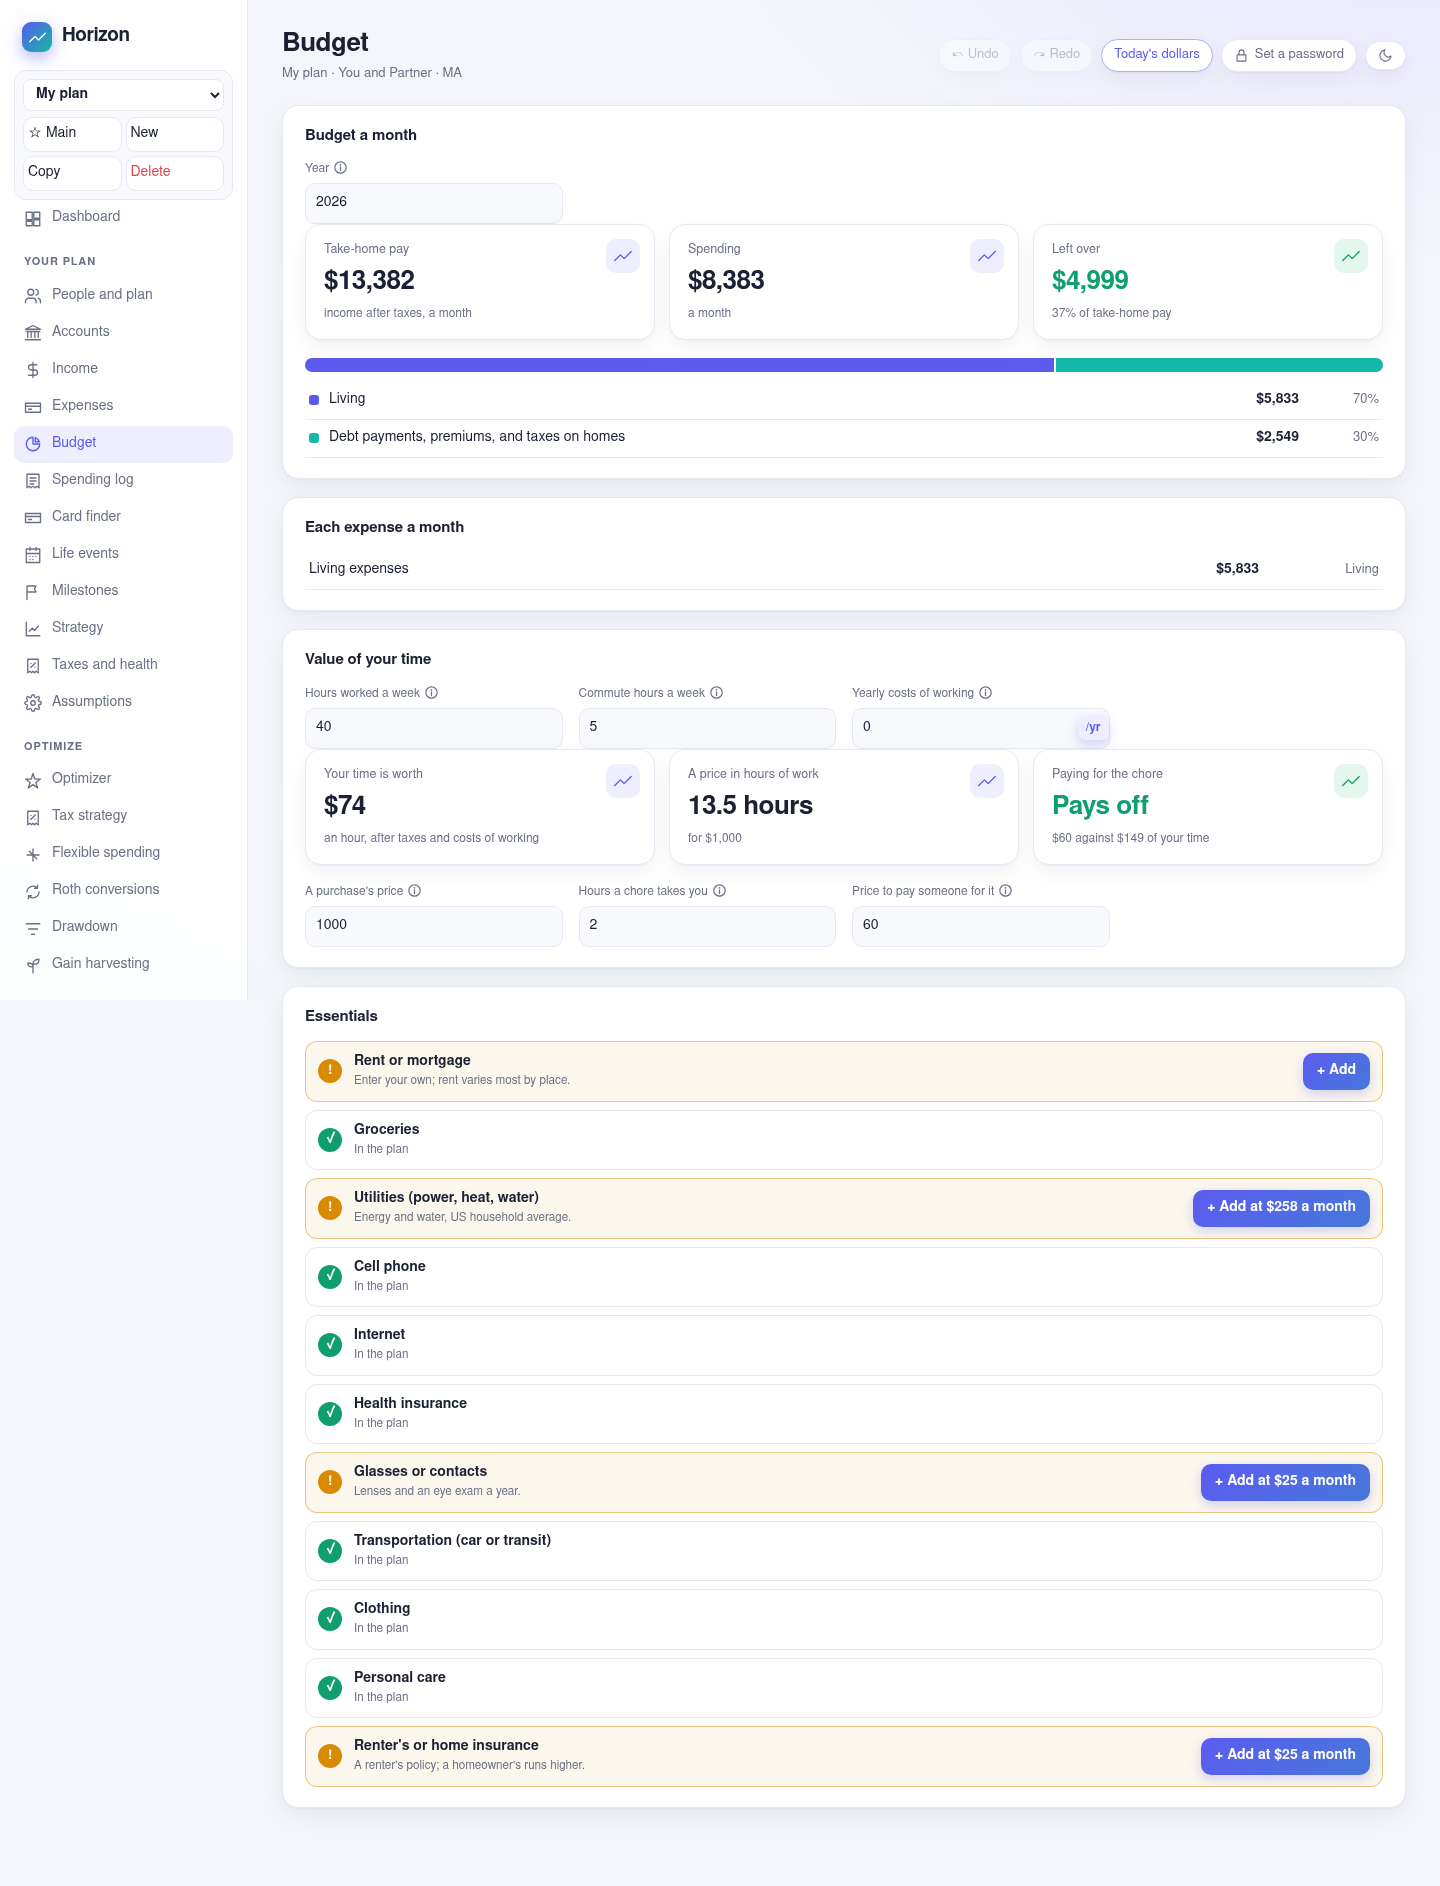
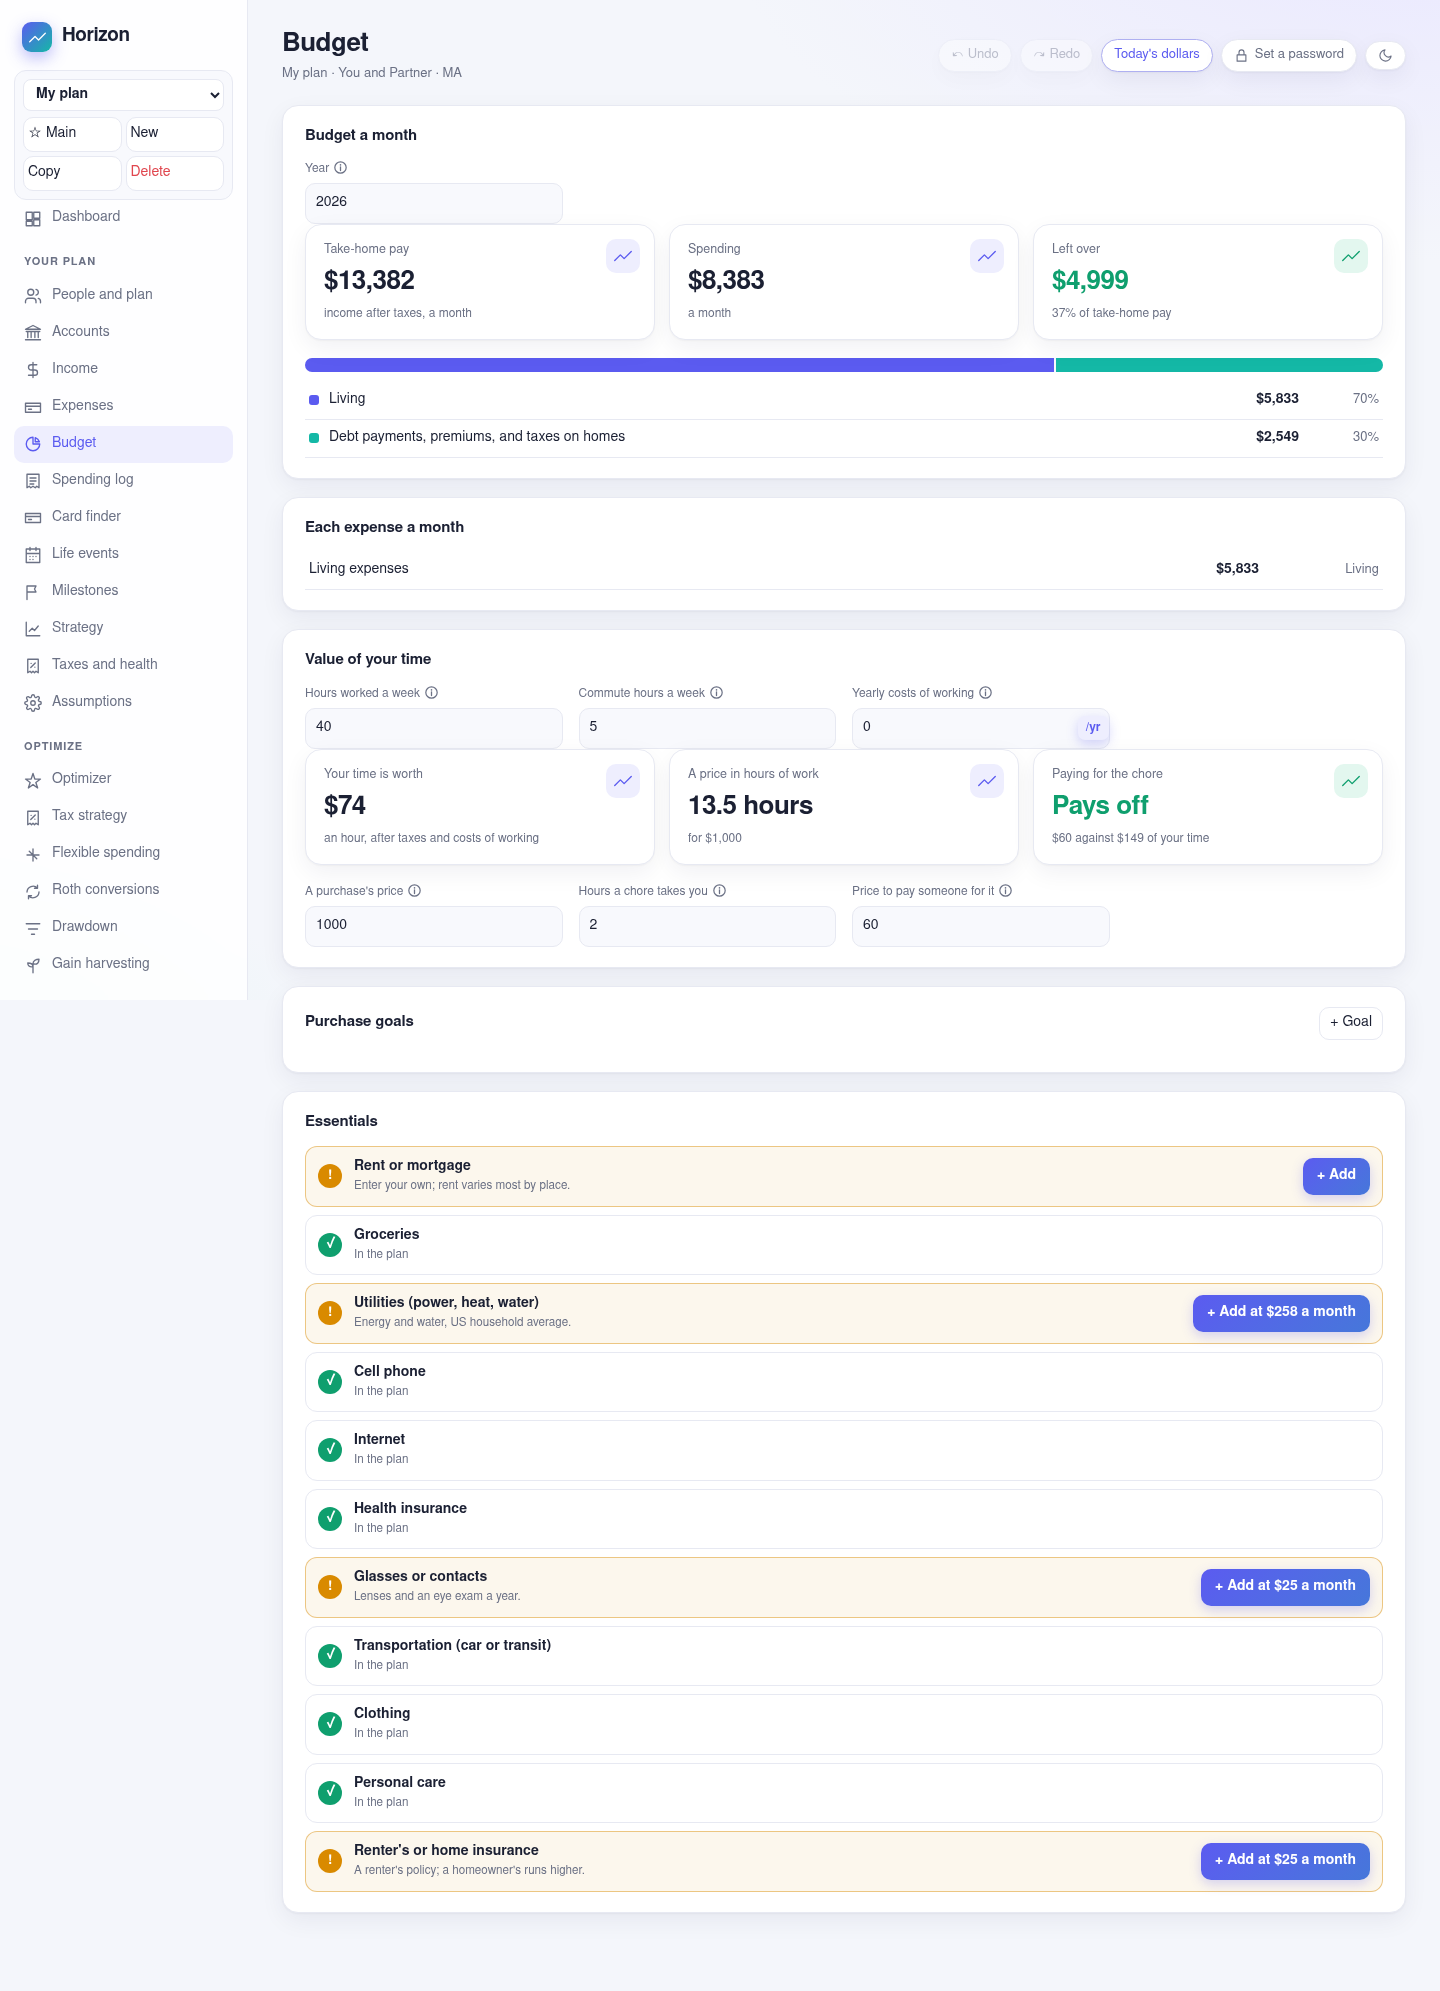
Purchase goals: the monthly saving to buy by a date, and offers ranked after coupons, portal, and card cash back
Claude-Session: https://claude.ai/code/session_01HeJ1UAxjk6MGEszesTwGbu

diff --git a/10_app/code/src/pages/Budget.tsx b/10_app/code/src/pages/Budget.tsx
@@ -8,6 +8,7 @@ import type { ExpenseKind } from '../engine/types';
 import { useStore } from '../store';
 import { useProjection } from '../useProjection';
 import { Card, Num, Stat, money, PALETTE } from '../ui';
+import { effectivePrice, goalPlan, type PurchaseGoal } from '../engine/goals';
 
 const KIND: Record<ExpenseKind, string> = {
   living: 'Living', housing: 'Housing', healthcare: 'Healthcare', education: 'Education', travel: 'Travel', other: 'Other',
@@ -74,6 +75,7 @@ export function BudgetPage() {
           })}</tbody>
         </table></div>
       </Card>}
+      <GoalsCard />
       <Card title="Essentials">
         <ul className="essentials">
           {ESSENTIALS.map((x) => {
@@ -121,6 +123,45 @@ function TimeValue({ takeHomeYear }: { takeHomeYear: number }) {
         <Num label="Hours a chore takes you" value={choreHours} onChange={(v) => setChoreHours(Math.max(0, v))} />
         <Num label="Price to pay someone for it" value={choreCost} onChange={(v) => setChoreCost(Math.max(0, v))} />
       </div>
+    </Card>
+  );
+}
+
+/** Purchase goals: the monthly saving each takes, and its offers ranked by their price after every discount stacks. */
+function GoalsCard() {
+  const { plan } = useProjection();
+  const update = useStore((s) => s.update);
+  const goals = plan.purchaseGoals ?? [];
+  const put = (j: number, f: (g: PurchaseGoal) => void) => update((p) => { f(p.purchaseGoals![j]); });
+  return (
+    <Card title="Purchase goals" actions={<button className="ghost" onClick={() => update((p) => { (p.purchaseGoals ??= []).push({ id: 'g' + Date.now(), name: 'New goal', price: 1000, by: `${new Date().getFullYear() + 1}-01-01`, saved: 0 }); })}>+ Goal</button>}>
+      {goals.map((g, j) => {
+        const r = goalPlan(g);
+        return <div key={g.id} className="goal">
+          <div className="grid">
+            <label className="field"><span>Goal</span><div className="input"><input value={g.name} onChange={(e) => put(j, (x) => { x.name = e.target.value; })} /></div></label>
+            <Num label="Price" value={g.price} onChange={(v) => put(j, (x) => { x.price = v; })} />
+            <label className="field"><span>Buy by</span><div className="input"><input type="date" value={g.by} onChange={(e) => e.target.value && put(j, (x) => { x.by = e.target.value; })} /></div></label>
+            <Num label="Saved so far" value={g.saved} onChange={(v) => put(j, (x) => { x.saved = v; })} />
+          </div>
+          <div className="stats"><Stat label="Save a month" value={money(r.monthly)} sub={`${r.months} months to go, for ${money(r.target)}`} /></div>
+          {(g.offers ?? []).map((o, k) => (
+            <div key={k} className="row">
+              <label className="field"><span>Store</span><div className="input"><input value={o.store} onChange={(e) => put(j, (x) => { x.offers![k].store = e.target.value; })} /></div></label>
+              <Num label="Offer price" value={o.price} onChange={(v) => put(j, (x) => { x.offers![k].price = v; })} />
+              <Num label="Coupon" value={o.coupon ?? 0} onChange={(v) => put(j, (x) => { x.offers![k].coupon = v || undefined; })} />
+              <Num label="Portal cash back" percent value={o.portal ?? 0} onChange={(v) => put(j, (x) => { x.offers![k].portal = v || undefined; })} />
+              <Num label="Card cash back" percent value={o.card ?? 0} onChange={(v) => put(j, (x) => { x.offers![k].card = v || undefined; })} />
+              <span>{money(effectivePrice(o))}{r.ranked[0] === o ? ' (best)' : ''}</span>
+              <button className="ghost danger" onClick={() => put(j, (x) => { x.offers!.splice(k, 1); })}>Remove</button>
+            </div>
+          ))}
+          <div className="row">
+            <button className="ghost" onClick={() => put(j, (x) => { (x.offers ??= []).push({ store: 'Store', price: g.price }); })}>+ Offer</button>
+            <button className="ghost danger" onClick={() => update((p) => { p.purchaseGoals!.splice(j, 1); })}>Remove goal</button>
+          </div>
+        </div>;
+      })}
     </Card>
   );
 }

diff --git a/10_app/code/src/engine/goals.ts b/10_app/code/src/engine/goals.ts
@@ -1,0 +1,24 @@
+// Purchase goals (Bryce, 2026-11-23): a thing to buy by a date, the monthly saving it takes, and the offers found for it,
+// ranked by what each costs after a coupon, a cash-back portal, and card cash back stack.
+export interface Offer { store: string; price: number; coupon?: number; portal?: number; card?: number }
+export interface PurchaseGoal { id: string; name: string; price: number; by: string; saved: number; offers?: Offer[] }
+
+/** What an offer costs after the coupon (dollars off), then the portal's and the card's cash back on the price paid. */
+export function effectivePrice(o: Offer): number {
+  const paid = Math.max(0, o.price - (o.coupon ?? 0));
+  return paid * (1 - (o.portal ?? 0) - (o.card ?? 0));
+}
+
+/** Months from a date (YYYY-MM-DD) to the goal's date, at least one. */
+export function monthsUntil(by: string, from = new Date()): number {
+  const d = new Date(by + 'T00:00:00');
+  return Math.max(1, (d.getFullYear() - from.getFullYear()) * 12 + d.getMonth() - from.getMonth());
+}
+
+/** The monthly saving to reach the goal by its date, at the best offer's price when offers are listed. */
+export function goalPlan(g: PurchaseGoal, from = new Date()) {
+  const ranked = [...(g.offers ?? [])].sort((a, b) => effectivePrice(a) - effectivePrice(b));
+  const target = ranked.length ? effectivePrice(ranked[0]) : g.price;
+  const months = monthsUntil(g.by, from);
+  return { ranked, target, months, monthly: Math.max(0, target - g.saved) / months };
+}

diff --git a/10_app/code/src/help.ts b/10_app/code/src/help.ts
@@ -361,4 +361,12 @@ export const HELP: Record<string, string> = {
   "Broker match on contributions": "Some brokers add a match to IRA contributions (Robinhood 1%, or 3% with Gold); the match is clawed back if money leaves the account too soon.",
   "Match rate": "The share of each year's contributions the broker adds.",
   "Years to keep each match": "How long each match must stay in the account; a withdrawal sooner forfeits the matches younger than this (Robinhood: 5 years).",
+  "Goal": "What you want to buy.",
+  "Buy by": "The date you want to buy it.",
+  "Saved so far": "Money already set aside for this goal.",
+  "Store": "Where the offer is.",
+  "Offer price": "The price before coupons and cash back.",
+  "Coupon": "Dollars off at checkout.",
+  "Portal cash back": "Cash back from a shopping portal (Rakuten, a card's portal) on the price paid.",
+  "Card cash back": "The card's cash back on this purchase.",
 };

diff --git a/10_app/code/src/engine/__tests__/goals.test.ts b/10_app/code/src/engine/__tests__/goals.test.ts
@@ -1,0 +1,12 @@
+import { describe, expect, it } from 'vitest';
+import { effectivePrice, goalPlan } from '../goals';
+
+describe('purchase goals', () => {
+  it('stacks a coupon, portal, and card cash back, and spreads the rest over the months left', () => {
+    expect(effectivePrice({ store: 'A', price: 1000, coupon: 100, portal: 0.05, card: 0.02 })).toBeCloseTo(900 * 0.93, 6);
+    const g = goalPlan({ id: 'g', name: 'Laptop', price: 1200, by: '2027-06-01', saved: 300, offers: [{ store: 'A', price: 1100 }, { store: 'B', price: 1000, coupon: 50 }] }, new Date('2026-12-01T00:00:00'));
+    expect(g.target).toBe(950);
+    expect(g.months).toBe(6);
+    expect(g.monthly).toBeCloseTo(650 / 6, 6);
+  });
+});

diff --git a/10_app/code/src/engine/types.ts b/10_app/code/src/engine/types.ts
@@ -564,6 +564,8 @@ export interface Plan {
   healthcare: Healthcare;
   events?: LifeEvent[];
   estate?: Estate;
+  /** Things to buy by a date, with offers found for them (engine/goals.ts). */
+  purchaseGoals?: import('./goals').PurchaseGoal[];
   /** Free notes printed with the plan report. */
   notes?: string;
   /** The plan starts from the current year with today's balances, as ProjectionLab's default plans do; unset, it keeps its

diff --git a/todo.md b/todo.md
@@ -19,7 +19,6 @@ Asked by Bryce on 2026-11-23, in the order to build.
 - Churn planner from bankrewards.io's listings: bonuses with their requirements, deadlines, eligibility by state, and early-closure fees; a schedule which meets each requirement with planned spending and deposits.
 - Credit scores: a projection from utilization, account age, inquiries, new accounts, and payment history; authorized users (the user on a parent's cards, a partner on the user's), and how each card plan changes the score.
 - Spending savings: paying in another currency, retention offers when cancelling, browser coupons, cash-back portals which stack with card rewards (cashbackmonitor.com's offers).
-- Purchase goals: a thing to buy (a laptop), saving up for it by a date, and the best deal under the user's filters, counting price errors, coupons, portal cash back, and card cash back.
 
 ## Statements, flows, and savings (Bryce, 2026-11-23)
 - Flows: confirm automatic transfers on a schedule cover every case (provider IRA matches with clawback are in, committed with shared memberships).
